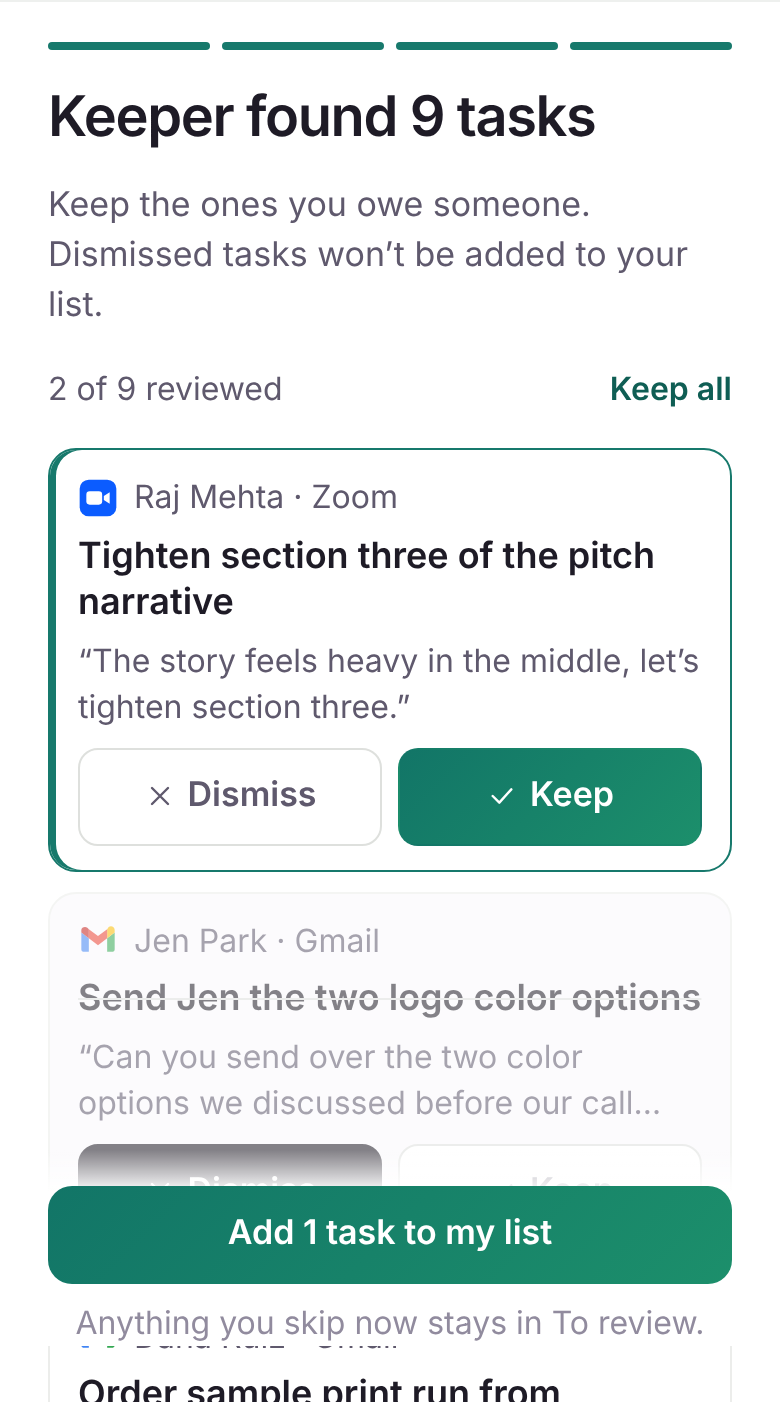
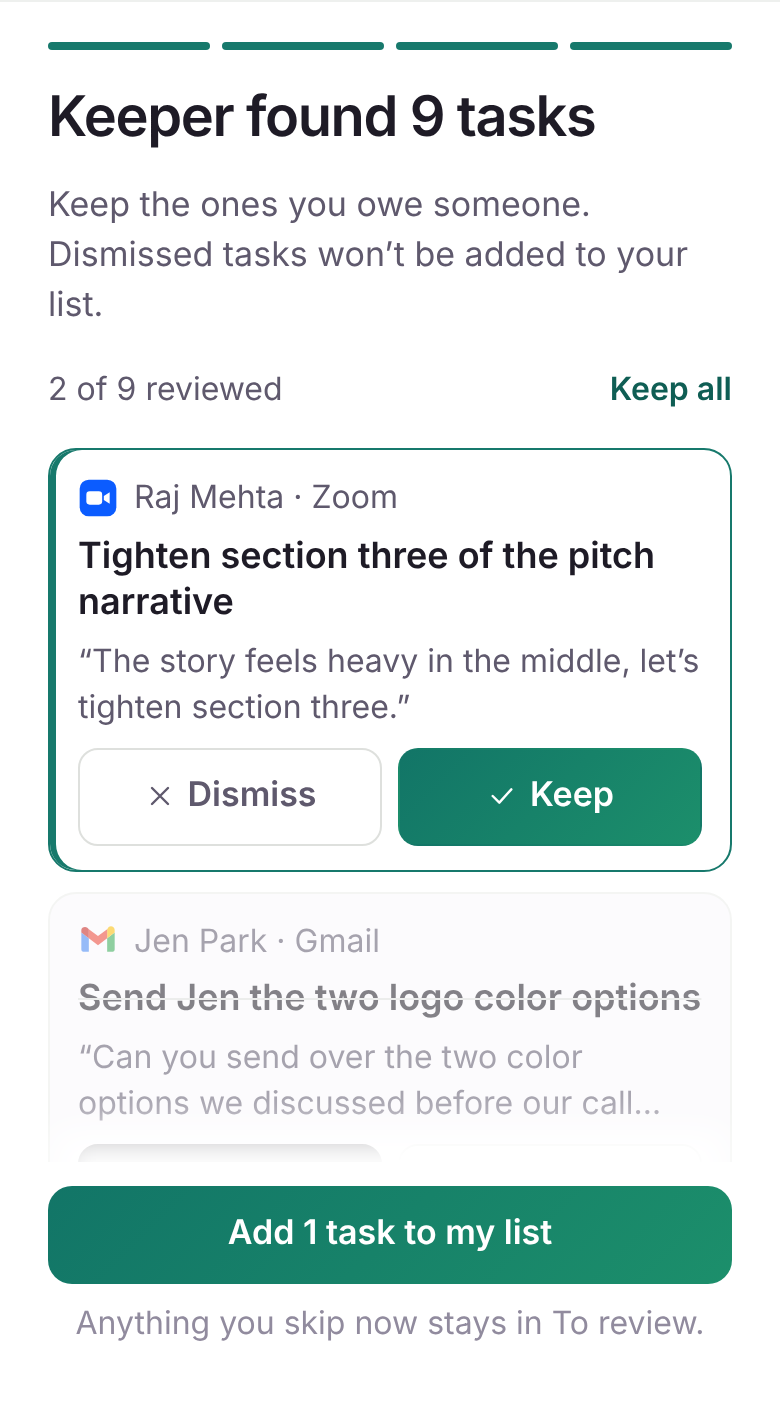
Landing: fresh screenshots with cache-busting, tighter spacing above on-the-go; solid review footer
Claude-Session: https://claude.ai/code/session_014YvqzXwex4AdHRyQpUpAPT

Changed region(s): [[0.0923, 0.7974, 0.4923, 0.8588], [0.0923, 0.9815, 0.7385, 1.0]]

diff --git a/landing.html b/landing.html
@@ -603,6 +603,9 @@
   /* ---------- revision 15 ---------- */
   .day-photo img{object-position:62% 35%;transform:scale(1.15);transform-origin:62% 40%}
   .crop{border-width:5px;border-radius:30px 30px 0 0}
+  #product{padding-top:40px}
+  .go-head{align-items:start}
+  @media (min-width:901px){.go-head .sec-h{padding-top:28px}}
 </style>
 </head>
 <body>
@@ -691,8 +694,8 @@
       </article>
     </div>
     <div class="what-shots">
-      <figure class="what-shot rev"><div class="phone"><span class="btn-l1" aria-hidden="true"></span><span class="btn-l2" aria-hidden="true"></span><span class="btn-l3" aria-hidden="true"></span><span class="btn-r" aria-hidden="true"></span><div class="island" aria-hidden="true"></div><div class="screen"><div class="status" aria-hidden="true"><b>9:41</b><span class="sig"></span></div><img src="img/m-settings.png" alt="Settings showing Gmail, Slack, business texts and Zoom connected" loading="lazy"></div></div><figcaption><b>Every channel feeds in</b>Gmail, Outlook, Slack, business texts, Zoom and Meet.</figcaption></figure>
-      <figure class="what-shot rev"><div class="phone"><span class="btn-l1" aria-hidden="true"></span><span class="btn-l2" aria-hidden="true"></span><span class="btn-l3" aria-hidden="true"></span><span class="btn-r" aria-hidden="true"></span><div class="island" aria-hidden="true"></div><div class="screen"><div class="status" aria-hidden="true"><b>9:41</b><span class="sig"></span></div><img src="img/m-board.png" alt="The Keeper board on a phone, with tasks sorted by due date" loading="lazy"></div></div><figcaption><b>Get one list</b>Every commitment, sorted by due date, with drafts ready to approve.</figcaption></figure>
+      <figure class="what-shot rev"><div class="phone"><span class="btn-l1" aria-hidden="true"></span><span class="btn-l2" aria-hidden="true"></span><span class="btn-l3" aria-hidden="true"></span><span class="btn-r" aria-hidden="true"></span><div class="island" aria-hidden="true"></div><div class="screen"><div class="status" aria-hidden="true"><b>9:41</b><span class="sig"></span></div><img src="img/m-settings.png?v=1020b" alt="Settings showing Gmail, Slack, business texts and Zoom connected" loading="lazy"></div></div><figcaption><b>Every channel feeds in</b>Gmail, Outlook, Slack, business texts, Zoom and Meet.</figcaption></figure>
+      <figure class="what-shot rev"><div class="phone"><span class="btn-l1" aria-hidden="true"></span><span class="btn-l2" aria-hidden="true"></span><span class="btn-l3" aria-hidden="true"></span><span class="btn-r" aria-hidden="true"></span><div class="island" aria-hidden="true"></div><div class="screen"><div class="status" aria-hidden="true"><b>9:41</b><span class="sig"></span></div><img src="img/m-board.png?v=1020b" alt="The Keeper board on a phone, with tasks sorted by due date" loading="lazy"></div></div><figcaption><b>Get one list</b>Every commitment, sorted by due date, with drafts ready to approve.</figcaption></figure>
     </div>
     <div class="sec-cta center"><a class="btn primary" href="index.html">Try Keeper free</a></div>
   </div>
@@ -725,11 +728,11 @@
     </div>
     <div class="steps">
       <div class="step rev"><span class="k">1</span><h3>Connect your channels</h3><p>Turn on the inboxes, workspaces and calls you use. It takes about as long as making toast. Clients can text a business number so your personal one stays private.</p>
-        <div class="phone"><span class="btn-l1" aria-hidden="true"></span><span class="btn-l2" aria-hidden="true"></span><span class="btn-l3" aria-hidden="true"></span><span class="btn-r" aria-hidden="true"></span><div class="island" aria-hidden="true"></div><div class="screen"><div class="status" aria-hidden="true"><b>9:41</b><span class="sig"></span></div><img src="img/m-onb.png" alt="Choosing which channels Keeper tracks" loading="lazy"></div></div></div>
+        <div class="phone"><span class="btn-l1" aria-hidden="true"></span><span class="btn-l2" aria-hidden="true"></span><span class="btn-l3" aria-hidden="true"></span><span class="btn-r" aria-hidden="true"></span><div class="island" aria-hidden="true"></div><div class="screen"><div class="status" aria-hidden="true"><b>9:41</b><span class="sig"></span></div><img src="img/m-onb.png?v=1020b" alt="Choosing which channels Keeper tracks" loading="lazy"></div></div></div>
       <div class="step rev"><span class="k">2</span><h3>Review what Keeper found</h3><p>Every commitment lands with its client, due date and a link to the original message. Keep it or dismiss it.</p>
-        <div class="phone"><span class="btn-l1" aria-hidden="true"></span><span class="btn-l2" aria-hidden="true"></span><span class="btn-l3" aria-hidden="true"></span><span class="btn-r" aria-hidden="true"></span><div class="island" aria-hidden="true"></div><div class="screen"><div class="status" aria-hidden="true"><b>9:41</b><span class="sig"></span></div><img src="img/m-review.png" alt="Reviewing the tasks Keeper found, with Keep and Dismiss buttons" loading="lazy"></div></div></div>
+        <div class="phone"><span class="btn-l1" aria-hidden="true"></span><span class="btn-l2" aria-hidden="true"></span><span class="btn-l3" aria-hidden="true"></span><span class="btn-r" aria-hidden="true"></span><div class="island" aria-hidden="true"></div><div class="screen"><div class="status" aria-hidden="true"><b>9:41</b><span class="sig"></span></div><img src="img/m-review.png?v=1020b" alt="Reviewing the tasks Keeper found, with Keep and Dismiss buttons" loading="lazy"></div></div></div>
       <div class="step rev"><span class="k">3</span><h3>Approve the easy ones</h3><p>For routine replies and scheduling, Keeper prepares a draft or a booking. Approve it in one tap, or let it handle those on its own.</p>
-        <div class="phone"><span class="btn-l1" aria-hidden="true"></span><span class="btn-l2" aria-hidden="true"></span><span class="btn-l3" aria-hidden="true"></span><span class="btn-r" aria-hidden="true"></span><div class="island" aria-hidden="true"></div><div class="screen"><div class="status" aria-hidden="true"><b>9:41</b><span class="sig"></span></div><img src="img/m-draft.png" alt="A reply Keeper drafted, ready to send" loading="lazy"></div></div></div>
+        <div class="phone"><span class="btn-l1" aria-hidden="true"></span><span class="btn-l2" aria-hidden="true"></span><span class="btn-l3" aria-hidden="true"></span><span class="btn-r" aria-hidden="true"></span><div class="island" aria-hidden="true"></div><div class="screen"><div class="status" aria-hidden="true"><b>9:41</b><span class="sig"></span></div><img src="img/m-draft.png?v=1020b" alt="A reply Keeper drafted, ready to send" loading="lazy"></div></div></div>
     </div>
   </div>
 </section>
@@ -750,15 +753,15 @@
     <div class="feat-grid">
       <article class="feat f1 rev">
         <div class="feat-txt"><span class="tagline">Pulled from your channels</span><h3>See where every task came from</h3><p>The exact line from the email, Slack or text that created it, with the original one tap away.</p></div>
-        <div class="crop"><img src="img/m-task.png" alt="A task showing the original email it came from, with an Open in Gmail button" loading="lazy" style="width:100%;transform:translate(0%,-50%)"></div>
+        <div class="crop"><img src="img/m-task.png?v=1020b" alt="A task showing the original email it came from, with an Open in Gmail button" loading="lazy" style="width:100%;transform:translate(0%,-50%)"></div>
       </article>
       <article class="feat f2 rev">
         <div class="feat-txt"><span class="tagline">Mobile first</span><h3>Your day on one screen</h3><p>Sorted by due date. Swipe right to finish a task.</p></div>
-        <div class="crop"><img src="img/m-board.png" alt="The Keeper list on a phone, with drafts ready to approve" loading="lazy" style="width:72%;left:14%;transform:translate(0%,-32.8%)"></div>
+        <div class="crop"><img src="img/m-board.png?v=1020b" alt="The Keeper list on a phone, with drafts ready to approve" loading="lazy" style="width:72%;left:14%;transform:translate(0%,-32.8%)"></div>
       </article>
       <article class="feat f3 rev">
         <div class="feat-txt"><span class="tagline">Voice mode</span><h3>Say it, don’t type it</h3><p>Tap once and talk. Keeper turns a ramble into a clean task and reads it back.</p></div>
-        <div class="crop"><img src="img/m-voice.png" alt="Keeper voice capture screen with a large microphone button" loading="lazy" style="width:100%;transform:translate(0%,-27%)"></div>
+        <div class="crop"><img src="img/m-voice.png?v=1020b" alt="Keeper voice capture screen with a large microphone button" loading="lazy" style="width:100%;transform:translate(0%,-27%)"></div>
       </article>
     </div>
     <div class="sec-cta center"><a class="btn primary" href="index.html">Try Keeper free</a></div>

diff --git a/styles.css b/styles.css
@@ -1057,3 +1057,5 @@ body{background:#EEF0EE}
 .m-tools{flex-wrap:wrap;row-gap:6px}
 .m-tools span.sort-note{display:none}
 .m-tools .sort-note{white-space:nowrap}
+/* review step footer: solid, covers cards scrolling beneath it */
+.ob-foot{bottom:-28px;background:#fff;padding:12px 0 28px;margin-bottom:-28px;z-index:2;box-shadow:0 -18px 18px -2px #fff}
